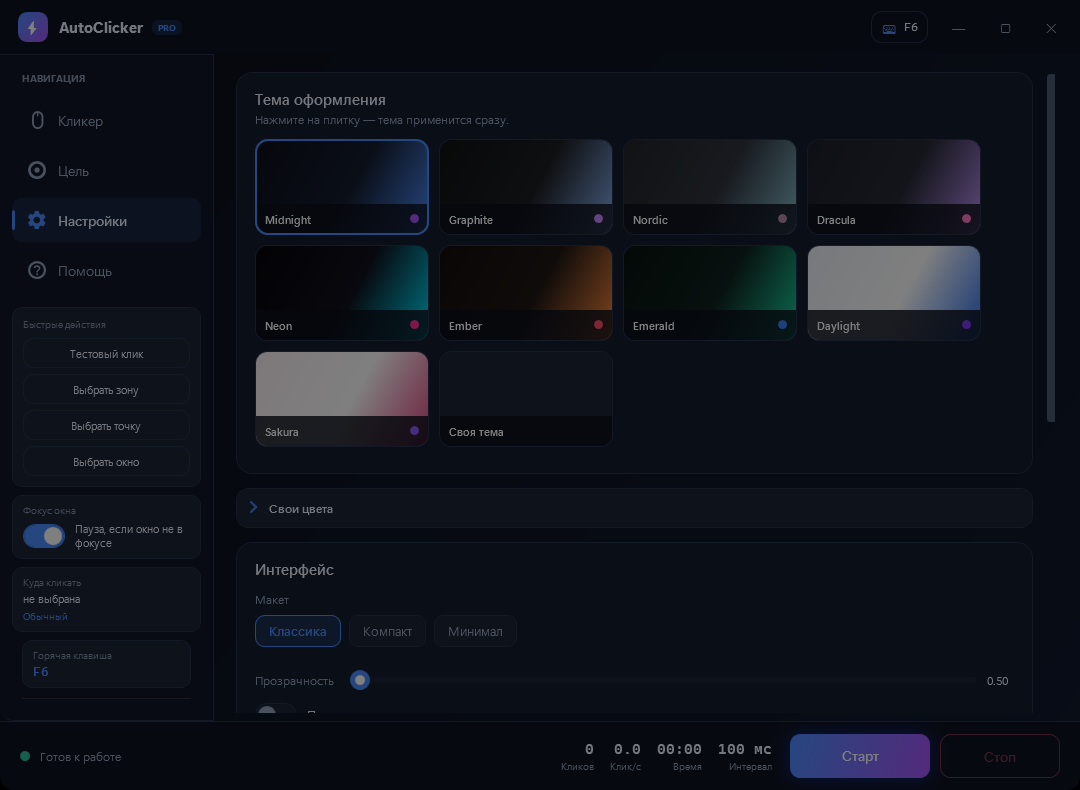
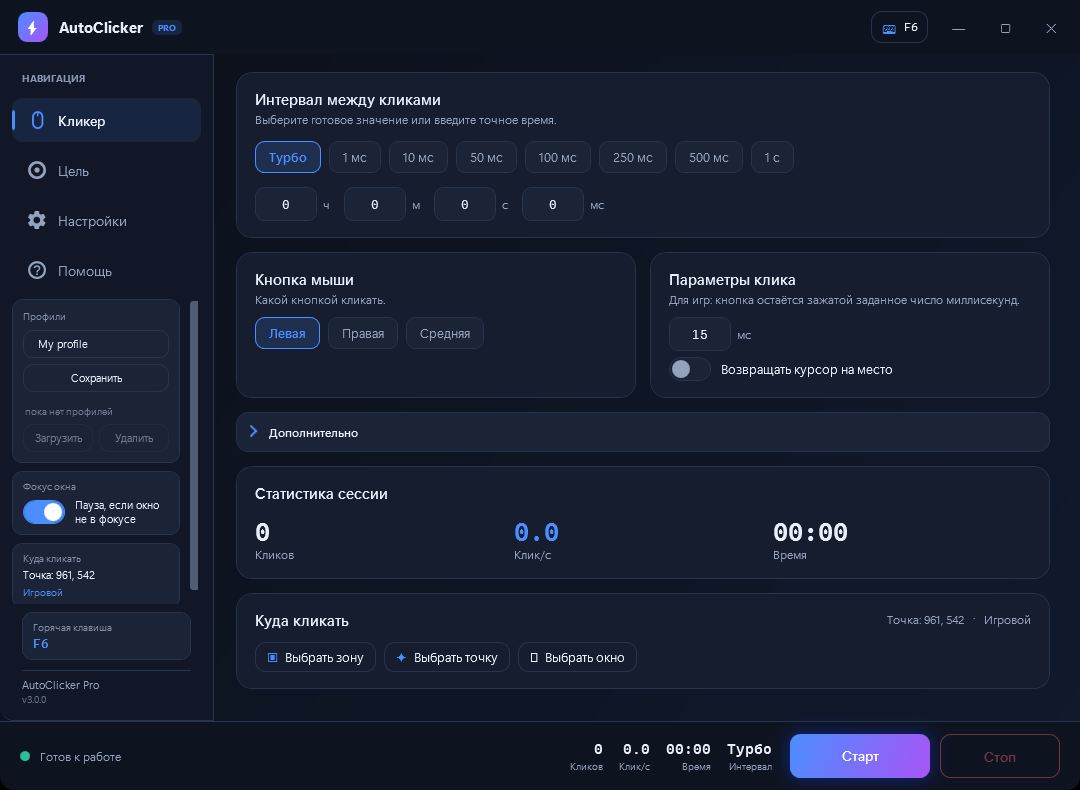
Replace sidebar quick actions with full settings profiles
- Save/load/delete complete setups (interval, mode, target, limits, hotkey, theme)
- Profiles stored as JSON in profiles/ next to the exe
- Empty-state hint and disabled actions when no profile selected
- Pause stats timer while the window is hidden/minimized (small optimization)
- README and screenshot updated

diff --git a/Styles.xaml b/Styles.xaml
@@ -878,19 +878,41 @@
                     <ScrollViewer Grid.Row="2" Margin="0,4,0,8" Padding="0,0,4,0"
                                   VerticalScrollBarVisibility="Auto" HorizontalScrollBarVisibility="Disabled">
                         <StackPanel>
-                            <!-- Быстрые действия -->
+                            <!-- Профили настроек -->
                             <Border Background="{DynamicResource ControlBgBrush}" BorderBrush="{DynamicResource BorderBrush}"
                                     BorderThickness="1" CornerRadius="10" Padding="10" Margin="0,0,0,8">
                                 <StackPanel>
-                                    <TextBlock Text="{Binding [QuickActions]}" FontSize="9.5" Foreground="{DynamicResource MutedBrush}" Opacity="0.85"/>
-                                    <Button Content="{Binding [BtnTestClick]}" Command="{Binding TestClickCommand}"
-                                            Style="{StaticResource GhostButton}" Height="30" FontSize="11" Padding="0" Margin="0,8,0,0"/>
-                                    <Button Content="{Binding [BtnSelectZone]}" Command="{Binding SelectAreaCommand}"
-                                            Style="{StaticResource GhostButton}" Height="30" FontSize="11" Padding="0" Margin="0,6,0,0"/>
-                                    <Button Content="{Binding [BtnSelectPoint]}" Command="{Binding SelectPointCommand}"
-                                            Style="{StaticResource GhostButton}" Height="30" FontSize="11" Padding="0" Margin="0,6,0,0"/>
-                                    <Button Content="{Binding [BtnSelectWindow]}" Command="{Binding SelectWindowCommand}"
-                                            Style="{StaticResource GhostButton}" Height="30" FontSize="11" Padding="0" Margin="0,6,0,0"/>
+                                    <TextBlock Text="{Binding [ProfilesSection]}" FontSize="9.5" Foreground="{DynamicResource MutedBrush}" Opacity="0.85"/>
+                                    <TextBox Text="{Binding ProfileName}" Height="28" Margin="0,8,0,0" FontSize="11" Padding="6,0"
+                                             ToolTip="{Binding [ProfileNameLabel]}"/>
+                                    <Button Content="{Binding [BtnSaveTheme]}" Command="{Binding SaveProfileCommand}"
+                                            Style="{StaticResource GhostButton}" Height="28" FontSize="11" Padding="0" Margin="0,6,0,0"/>
+                                    <ListBox ItemsSource="{Binding Profiles}" SelectedItem="{Binding SelectedProfile}"
+                                             MaxHeight="110" Margin="0,6,0,0" FontSize="11"/>
+                                    <TextBlock Text="{Binding [NoProfiles]}" FontSize="10" Foreground="{DynamicResource MutedBrush}"
+                                               Opacity="0.7" Margin="2,4,0,0">
+                                        <TextBlock.Style>
+                                            <Style TargetType="TextBlock">
+                                                <Setter Property="Visibility" Value="Collapsed"/>
+                                                <Style.Triggers>
+                                                    <DataTrigger Binding="{Binding HasProfiles}" Value="False">
+                                                        <Setter Property="Visibility" Value="Visible"/>
+                                                    </DataTrigger>
+                                                </Style.Triggers>
+                                            </Style>
+                                        </TextBlock.Style>
+                                    </TextBlock>
+                                    <Grid Margin="0,6,0,0">
+                                        <Grid.ColumnDefinitions>
+                                            <ColumnDefinition Width="*"/>
+                                            <ColumnDefinition Width="6"/>
+                                            <ColumnDefinition Width="*"/>
+                                        </Grid.ColumnDefinitions>
+                                        <Button Content="{Binding [BtnLoadTheme]}" Command="{Binding LoadProfileCommand}"
+                                                Style="{StaticResource GhostButton}" Height="28" FontSize="10.5" Padding="0"/>
+                                        <Button Grid.Column="2" Content="{Binding [BtnDeleteTheme]}" Command="{Binding DeleteProfileCommand}"
+                                                Style="{StaticResource GhostButton}" Height="28" FontSize="10.5" Padding="0"/>
+                                    </Grid>
                                 </StackPanel>
                             </Border>
 

diff --git a/MainViewModel.cs b/MainViewModel.cs
@@ -419,6 +419,23 @@ namespace AutoClicker
         // === СОХРАНЁННЫЕ ТЕМЫ ===
         public ObservableCollection<string> SavedConfigs { get; } = new ObservableCollection<string>();
 
+        // === ПРОФИЛИ НАСТРОЕК ===
+        public ObservableCollection<string> Profiles { get; } = new ObservableCollection<string>();
+
+        private string _profileName = "My profile";
+        public string ProfileName { get => _profileName; set => SetField(ref _profileName, value); }
+
+        private string _selectedProfile;
+        public string SelectedProfile
+        {
+            get => _selectedProfile;
+            set
+            {
+                if (!SetField(ref _selectedProfile, value)) return;
+                LoadProfileCommand.RaiseCanExecuteChanged();
+                DeleteProfileCommand.RaiseCanExecuteChanged();
+            }
+        }
         private string _themeConfigName = "My theme";
         public string ThemeConfigName { get => _themeConfigName; set => SetField(ref _themeConfigName, value); }
 
@@ -458,6 +475,9 @@ namespace AutoClicker
         public RelayCommand SaveThemeCommand { get; }
         public RelayCommand LoadThemeCommand { get; }
         public RelayCommand DeleteThemeCommand { get; }
+        public RelayCommand SaveProfileCommand { get; }
+        public RelayCommand LoadProfileCommand { get; }
+        public RelayCommand DeleteProfileCommand { get; }
         public RelayCommand<SelectableItem> SelectIntervalCommand { get; }
         public RelayCommand<SelectableItem> SelectMouseButtonCommand { get; }
         public RelayCommand<SelectableItem> SelectModeCommand { get; }
@@ -478,6 +498,7 @@ namespace AutoClicker
         private readonly DispatcherTimer _saveTimer;
         private bool _loading;
         private bool _dirty;
+        private bool _uiActive = true;
 
         public MainViewModel()
         {
@@ -491,6 +512,9 @@ namespace AutoClicker
             SaveThemeCommand = new RelayCommand(SaveThemeConfig);
             LoadThemeCommand = new RelayCommand(LoadThemeConfig);
             DeleteThemeCommand = new RelayCommand(DeleteThemeConfig);
+            SaveProfileCommand = new RelayCommand(SaveProfile);
+            LoadProfileCommand = new RelayCommand(LoadProfile, () => !string.IsNullOrWhiteSpace(SelectedProfile));
+            DeleteProfileCommand = new RelayCommand(DeleteProfile, () => !string.IsNullOrWhiteSpace(SelectedProfile));
             SelectIntervalCommand = new RelayCommand<SelectableItem>(SelectInterval);
             SelectMouseButtonCommand = new RelayCommand<SelectableItem>(SelectMouseButton);
             SelectModeCommand = new RelayCommand<SelectableItem>(SelectMode);
@@ -535,6 +559,7 @@ namespace AutoClicker
             RebuildLocalizedLabels();
             SyncIntervalChips();
             ReloadSavedThemes();
+            LoadProfiles();
             StatusMessage = T("StatusReady");
         }
 
@@ -846,6 +871,61 @@ namespace AutoClicker
                 SavedConfigs.Add(name);
         }
 
+        // === ПРОФИЛИ ===
+
+        private void SaveProfile()
+        {
+            string name = (ProfileName ?? string.Empty).Trim();
+            if (name.Length == 0)
+            {
+                StatusMessage = T("StatusProfileNameRequired");
+                return;
+            }
+
+            SettingsManager.SaveProfile(name, BuildSettings());
+            LoadProfiles();
+            SelectedProfile = name;
+            StatusMessage = string.Format(T("StatusProfileSaved"), name);
+        }
+
+        private void LoadProfile()
+        {
+            if (string.IsNullOrWhiteSpace(SelectedProfile)) return;
+
+            var settings = SettingsManager.LoadProfile(SelectedProfile);
+            if (settings == null)
+            {
+                StatusMessage = T("StatusProfileMissing");
+                return;
+            }
+
+            ApplySettings(settings);
+            OnHotkeyChanged?.Invoke();
+            StatusMessage = string.Format(T("StatusProfileLoaded"), SelectedProfile);
+            MarkDirty();
+        }
+
+        private void DeleteProfile()
+        {
+            if (string.IsNullOrWhiteSpace(SelectedProfile)) return;
+
+            string deleted = SelectedProfile;
+            SettingsManager.DeleteProfile(deleted);
+            LoadProfiles();
+            SelectedProfile = Profiles.FirstOrDefault();
+            StatusMessage = string.Format(T("StatusProfileDeleted"), deleted);
+        }
+
+        private void LoadProfiles()
+        {
+            Profiles.Clear();
+            foreach (var name in SettingsManager.GetProfiles())
+                Profiles.Add(name);
+
+            OnPropertyChanged(nameof(HasProfiles));
+        }
+
+        public bool HasProfiles => Profiles.Count > 0;
         // === ДВИЖОК ===
 
         private void StartEngine()
@@ -860,7 +940,7 @@ namespace AutoClicker
             _engine.Start();
             IsRunning = true;
             StatusMessage = T("StatusRunning");
-            _statsTimer.Start();
+            if (_uiActive) _statsTimer.Start();
 
             if (ClickMode == ClickMode.Background && !HasTargetWindow)
                 StatusMessage = T("StatusWindowMissing");
@@ -907,6 +987,16 @@ namespace AutoClicker
 
                 MarkDirty();
             }));
+        }
+
+        /// <summary>Останавливает обновление статистики, когда окно скрыто/свёрнуто.</summary>
+        public void SetUiActive(bool active)
+        {
+            _uiActive = active;
+            if (!IsRunning) return;
+
+            if (active) _statsTimer.Start();
+            else _statsTimer.Stop();
         }
 
         private void UpdateStats()
@@ -1104,6 +1194,7 @@ namespace AutoClicker
 
                 IsTopmost = s.IsTopmost;
                 _windowOpacity = Math.Max(0.5, Math.Min(1.0, s.WindowOpacity));
+                OnPropertyChanged(nameof(WindowOpacity));
                 MinimizeToTray = s.MinimizeToTray;
                 SmoothScrolling = s.SmoothScrolling;
                 PauseWhenUnfocused = s.PauseWhenUnfocused;

diff --git a/SettingsManager.cs b/SettingsManager.cs
@@ -14,6 +14,7 @@ namespace AutoClicker
     {
         private const string SettingsFileName = "autoclicker_settings.json";
         private const string ThemeFolderName = "theme_configs";
+        private const string ProfilesFolderName = "profiles";
 
         private static readonly JsonSerializerSettings JsonSettings = new JsonSerializerSettings
         {
@@ -242,9 +243,84 @@ namespace AutoClicker
 
         private static string ThemePath(string name)
         {
-            string safe = new string((name ?? "My theme").Where(c => !Path.GetInvalidFileNameChars().Contains(c)).ToArray()).Trim();
-            if (string.IsNullOrWhiteSpace(safe)) safe = "My theme";
+            string safe = SafeFileName(name, "My theme");
             return Path.Combine(ThemeDirectory, safe + ".json");
+        }
+
+        private static string SafeFileName(string name, string fallback)
+        {
+            string safe = new string((name ?? string.Empty).Where(c => !Path.GetInvalidFileNameChars().Contains(c)).ToArray()).Trim();
+            if (string.IsNullOrWhiteSpace(safe)) safe = fallback;
+            return safe;
+        }
+
+        // === Профили настроек ===
+
+        public static string ProfilesDirectory => Path.Combine(DataDirectory, ProfilesFolderName);
+
+        public static void SaveProfile(string name, AppSettings settings)
+        {
+            try
+            {
+                if (settings == null || string.IsNullOrWhiteSpace(name)) return;
+                Directory.CreateDirectory(ProfilesDirectory);
+                File.WriteAllText(ProfilePath(name), JsonConvert.SerializeObject(settings, JsonSettings));
+            }
+            catch (Exception ex)
+            {
+                System.Diagnostics.Debug.WriteLine($"[Profile] Save error: {ex.Message}");
+            }
+        }
+
+        public static AppSettings LoadProfile(string name)
+        {
+            try
+            {
+                string path = ProfilePath(name);
+                if (!File.Exists(path)) return null;
+                return JsonConvert.DeserializeObject<AppSettings>(File.ReadAllText(path), JsonSettings);
+            }
+            catch (Exception ex)
+            {
+                System.Diagnostics.Debug.WriteLine($"[Profile] Load error: {ex.Message}");
+                return null;
+            }
+        }
+
+        public static void DeleteProfile(string name)
+        {
+            try
+            {
+                string path = ProfilePath(name);
+                if (File.Exists(path)) File.Delete(path);
+            }
+            catch (Exception ex)
+            {
+                System.Diagnostics.Debug.WriteLine($"[Profile] Delete error: {ex.Message}");
+            }
+        }
+
+        public static List<string> GetProfiles()
+        {
+            try
+            {
+                if (!Directory.Exists(ProfilesDirectory)) return new List<string>();
+                return Directory.GetFiles(ProfilesDirectory, "*.json")
+                    .Select(Path.GetFileNameWithoutExtension)
+                    .Where(n => !string.IsNullOrWhiteSpace(n))
+                    .OrderBy(n => n, StringComparer.CurrentCultureIgnoreCase)
+                    .ToList();
+            }
+            catch
+            {
+                return new List<string>();
+            }
+        }
+
+        private static string ProfilePath(string name)
+        {
+            string safe = SafeFileName(name, "Profile");
+            return Path.Combine(ProfilesDirectory, safe + ".json");
         }
     }
 

diff --git a/LanguageManager.cs b/LanguageManager.cs
@@ -143,6 +143,14 @@ namespace AutoClicker
 
                     ["SectionLanguage"] = "Язык",
                     ["SectionProfiles"] = "Сохранённые темы",
+                    ["ProfilesSection"] = "Профили",
+                    ["ProfileNameLabel"] = "Имя профиля",
+                    ["StatusProfileSaved"] = "Профиль сохранён: {0}",
+                    ["StatusProfileLoaded"] = "Профиль загружен: {0}",
+                    ["StatusProfileDeleted"] = "Профиль удалён: {0}",
+                    ["StatusProfileMissing"] = "Профиль не найден",
+                    ["StatusProfileNameRequired"] = "Введите имя профиля",
+                    ["NoProfiles"] = "пока нет профилей",
                     ["HintProfiles"] = "Свои палитры можно сохранять и загружать.",
                     ["LabelThemeName"] = "Название",
                     ["BtnSaveTheme"] = "Сохранить",
@@ -330,6 +338,14 @@ namespace AutoClicker
 
                     ["SectionLanguage"] = "Language",
                     ["SectionProfiles"] = "Saved themes",
+                    ["ProfilesSection"] = "Profiles",
+                    ["ProfileNameLabel"] = "Profile name",
+                    ["StatusProfileSaved"] = "Profile saved: {0}",
+                    ["StatusProfileLoaded"] = "Profile loaded: {0}",
+                    ["StatusProfileDeleted"] = "Profile deleted: {0}",
+                    ["StatusProfileMissing"] = "Profile not found",
+                    ["StatusProfileNameRequired"] = "Enter a profile name",
+                    ["NoProfiles"] = "no profiles yet",
                     ["HintProfiles"] = "Save your palettes and switch between them.",
                     ["LabelThemeName"] = "Name",
                     ["BtnSaveTheme"] = "Save",

diff --git a/MainWindow.xaml.cs b/MainWindow.xaml.cs
@@ -66,6 +66,7 @@ namespace AutoClicker
             VM.OnSelectWindow += () => Dispatcher.BeginInvoke(new Action(SelectWindowInteractive));
             VM.OnHotkeyChanged += () => Dispatcher.BeginInvoke(new Action(RegisterCurrentHotkey));
             VM.PropertyChanged += ViewModel_PropertyChanged;
+            IsVisibleChanged += (s, e) => VM.SetUiActive(IsVisible && WindowState != WindowState.Minimized);
 
             Loaded += MainWindow_Loaded;
             Closing += MainWindow_Closing;
@@ -122,6 +123,8 @@ namespace AutoClicker
 
         private void MainWindow_StateChanged(object sender, EventArgs e)
         {
+            VM.SetUiActive(WindowState != WindowState.Minimized && IsVisible);
+
             if (WindowState == WindowState.Minimized && VM.MinimizeToTray)
                 Dispatcher.BeginInvoke(new Action(HideToTray));
         }
@@ -847,12 +850,14 @@ namespace AutoClicker
         private void HideToTray()
         {
             if (_tray == null) return;
+            VM.SetUiActive(false);
             Hide();
         }
 
         private void RestoreFromTray()
         {
             Show();
+            VM.SetUiActive(true);
             WindowState = WindowState.Normal;
             Activate();
             Topmost = VM.IsTopmost;

diff --git a/README.md b/README.md
@@ -32,8 +32,10 @@ high-precision timing and clear stats.
   / Three UI layouts: classic sidebar, compact icon rail, minimal top nav.
 - **Турбо-режим:** интервал 0 мс — до ~15 000 кликов/с в фоновом режиме.
   / Turbo mode (0 ms) — up to ~15k clicks/s in background mode.
-- **Быстрые действия и пауза по фокусу:** тест-клик и выбор цели из сайдбара; игровой режим
-  не кликает, пока целевое окно не в фокусе. / Sidebar quick actions and focus-aware pause.
+- **Профили настроек:** сохраняйте всю конфигурацию (интервал, режим, цель, лимиты, хоткей)
+  под именем и переключайтесь одним кликом. / Save and switch full setups as profiles.
+- **Пауза по фокусу:** игровой режим не кликает, пока целевое окно не в фокусе.
+  / Focus-aware pause in game mode.
 
 ### Раскладки / Layouts
 
